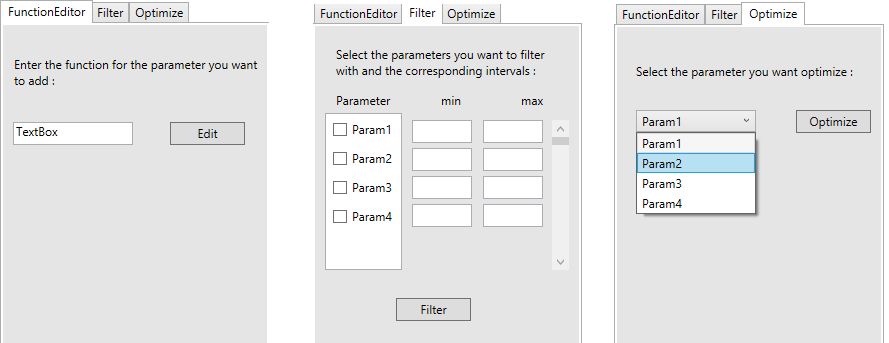
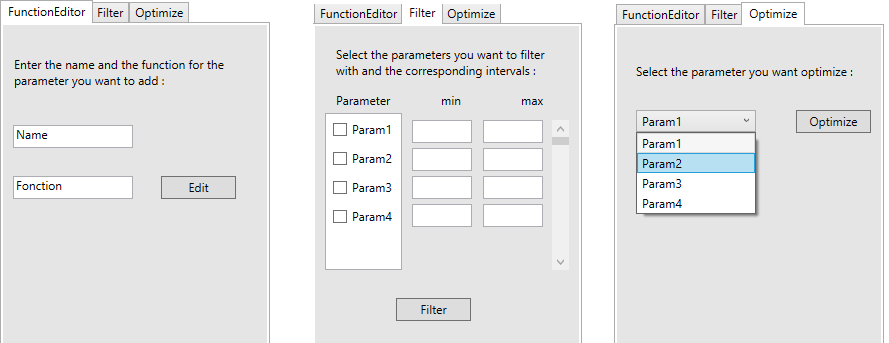
interfaceRevue

diff --git a/Glasir/Glasir/MainWindow.xaml b/Glasir/Glasir/MainWindow.xaml
@@ -3,7 +3,6 @@
         xmlns:x="http://schemas.microsoft.com/winfx/2006/xaml"
         Title="Glasir" Height="700" Width="300">
     <Grid>
-        <TextBlock HorizontalAlignment="Left" Height="80" Margin="10,555,0,0" TextWrapping="Wrap" VerticalAlignment="Top" Width="150"><Run Text="Hierarchie"/><LineBreak/><Run Text="- Arbre"/><LineBreak/><Run Text="  - sous arbre"/><LineBreak/><Run Text="  - sous arbre"/><LineBreak/><Run Text="- Arbre"/></TextBlock>
         <Menu HorizontalAlignment="Left" Height="29" VerticalAlignment="Top" FontSize="18" Width="517">
             <MenuItem Header="_File">
                 <MenuItem Header="_New..." Command="New"/>
@@ -34,9 +33,10 @@
         <TabControl HorizontalAlignment="Left" Height="497" Margin="10,34,0,0" VerticalAlignment="Top" Width="270">
             <TabItem Header="FunctionEditor">
                 <Grid Background="#FFE5E5E5">
-                    <Button Content="Edit" HorizontalAlignment="Left" Margin="167,97,0,0" VerticalAlignment="Top" Width="75" Height="23"/>
-                    <TextBox HorizontalAlignment="Left" Height="23" Margin="10,97,0,0" TextWrapping="Wrap" Text="TextBox" VerticalAlignment="Top" Width="120"/>
-                    <TextBlock HorizontalAlignment="Left" Margin="11,31,0,0" TextWrapping="Wrap" Text="Enter the function for the parameter you want to add :" VerticalAlignment="Top"/>
+                    <Button Content="Edit" HorizontalAlignment="Left" Margin="158,151,0,0" VerticalAlignment="Top" Width="75" Height="23"/>
+                    <TextBox HorizontalAlignment="Left" Height="23" Margin="10,151,0,0" TextWrapping="Wrap" Text="Fonction" VerticalAlignment="Top" Width="120"/>
+                    <TextBlock HorizontalAlignment="Left" Margin="11,31,0,0" TextWrapping="Wrap" Text="Enter the name and the function for the parameter you want to add :" VerticalAlignment="Top"/>
+                    <TextBox HorizontalAlignment="Left" Height="23" Margin="10,100,0,0" TextWrapping="Wrap" Text="Name" VerticalAlignment="Top" Width="120"/>
                 </Grid>
             </TabItem>
             <TabItem Header="Filter">
